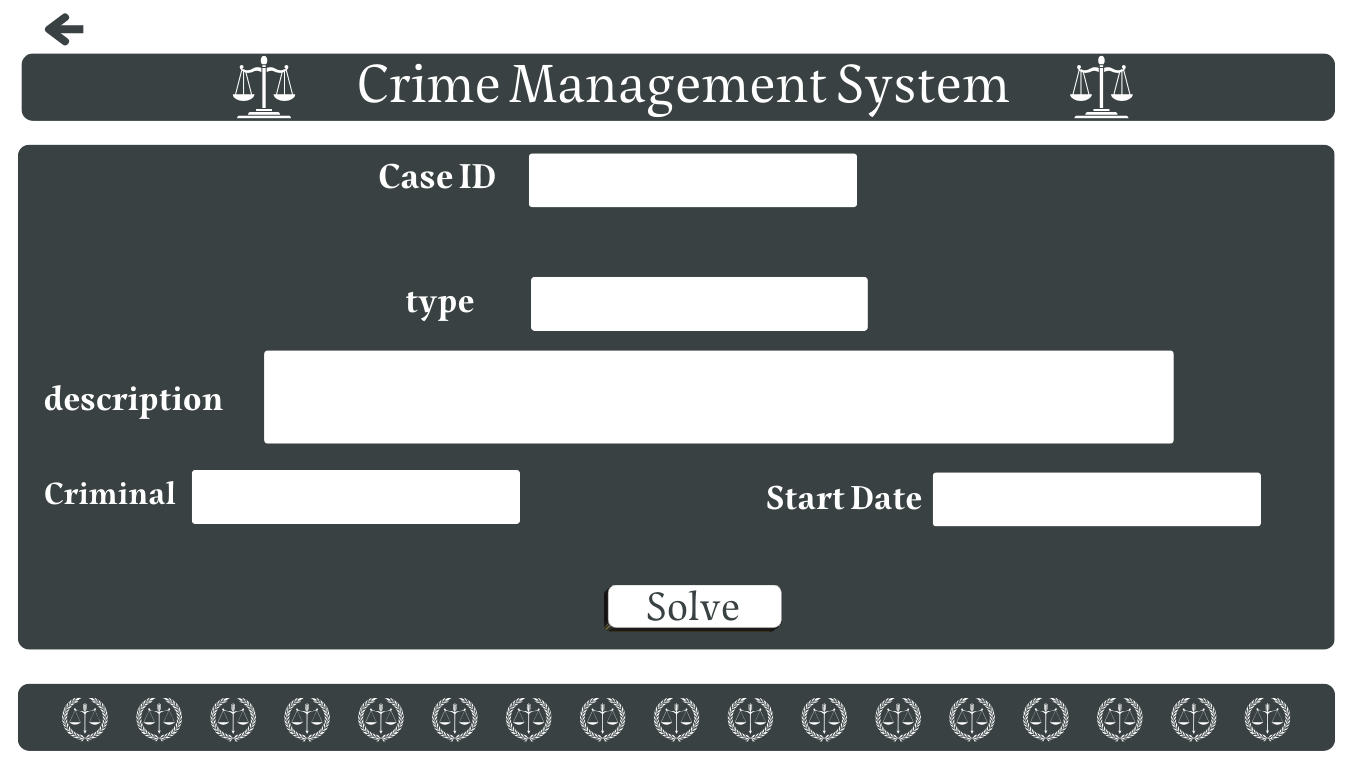
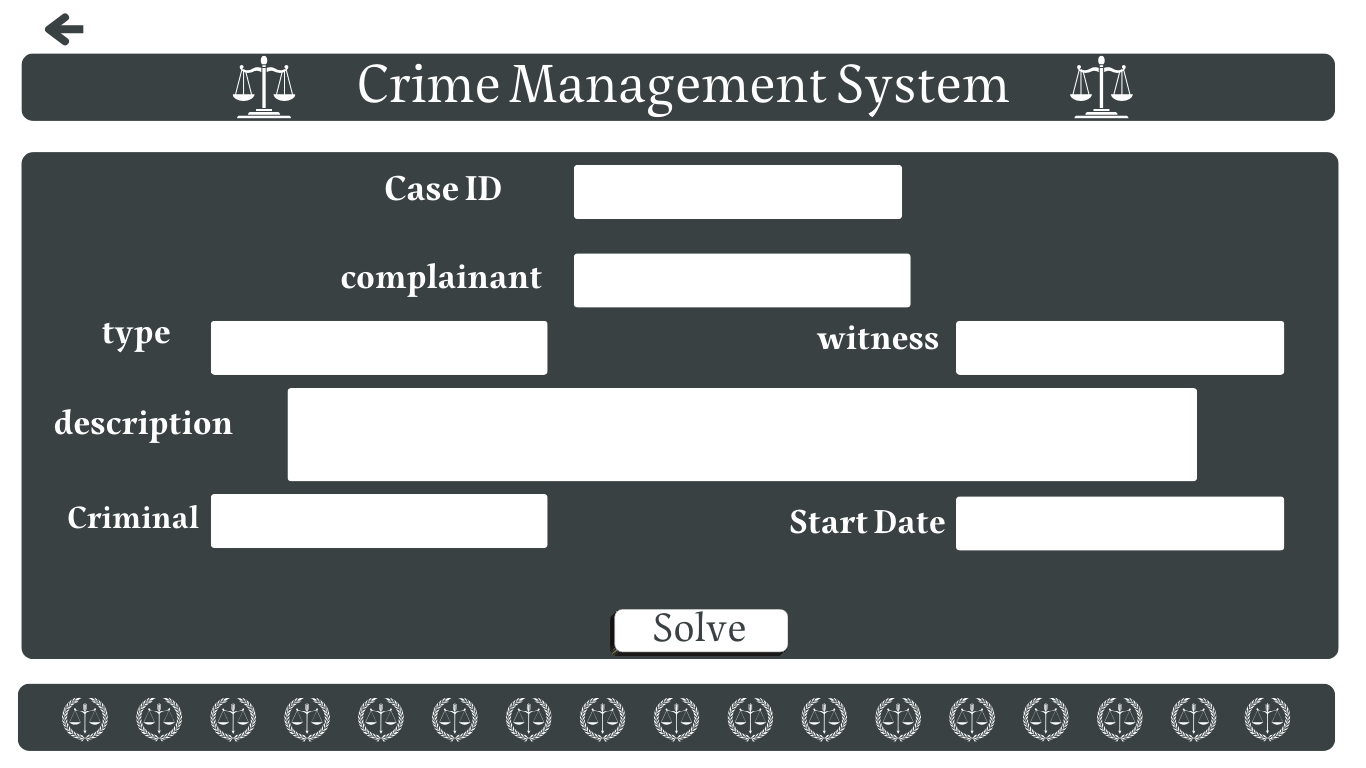
DONE OOP ✅

Changed region(s): [[0.0, 0.1875, 0.9839, 0.875], [0.0615, 0.4062, 0.123, 0.4688]]

diff --git a/src/main/java/com/example/crime_management_system_gui/PoliceOfficers.java b/src/main/java/com/example/crime_management_system_gui/PoliceOfficers.java
@@ -21,6 +21,10 @@ public class PoliceOfficers extends Switching implements Initializable {
     @FXML
     private Label description;
     @FXML
+    private Label witness;
+    @FXML
+    private Label complainant;
+    @FXML
     private DatePicker startDate;
     @FXML
     private DatePicker lastUpdate;
@@ -39,7 +43,6 @@ public class PoliceOfficers extends Switching implements Initializable {
     @Override
     public void initialize(URL url, ResourceBundle resourceBundle) {
         dataManager = Main.getDataManager();
-
         List<String> Criminals = dataManager.getCriminalsData();
         for (String criminal : Criminals) {
             String[] criminalDetails = criminal.split(",");
@@ -58,6 +61,8 @@ public class PoliceOfficers extends Switching implements Initializable {
         String CaseId = cases.getValue();
         String CaseData = dataManager.getCaseDataById(CaseId);
         String[] caseDetails = CaseData.split(",");
+        complainant.setText(caseDetails[1]);
+        witness.setText(caseDetails[2]);
         crimeType.setText(caseDetails[3]);
         description.setText(caseDetails[4]);
         message.setText("");
@@ -114,7 +119,15 @@ public class PoliceOfficers extends Switching implements Initializable {
             message.setTextFill(Color.RED);
             return;
         }
-
+        for (int i = 0; i < dataManager.getUpdatedCriminalCases().size(); i++) {
+            String[] caseDetails = dataManager.getUpdatedCriminalCases().get(i).split(",");
+            if (caseDetails[0].equals(CaseId)) {
+                caseDetails[1] = LastUpdate;
+                dataManager.updateUpdatedCriminalCasesData(i, String.join(",", caseDetails));
+            }
+        }
+        String UpdatedCriminalCases = String.join(",", CaseId, LastUpdate, Criminal);
+        dataManager.getUpdatedCriminalCases().add(UpdatedCriminalCases);
 
         message.setText("Criminal added successfully!");
         message.setTextFill(Color.GREEN);
@@ -122,7 +135,7 @@ public class PoliceOfficers extends Switching implements Initializable {
 
     @FXML
     private void getCaseInfoForUpdate() {
-        assignedCriminals.getItems().clear();
+        clear();
         String CaseId = cases.getValue();
         String SolvedCaseData = dataManager.getSolvedCaseDataById(CaseId);
         String[] caseDetails = SolvedCaseData.split(",");
@@ -134,5 +147,11 @@ public class PoliceOfficers extends Switching implements Initializable {
 
         List<String> criminalIds = dataManager.getCriminalsIdsByCaseId(CaseId);
         assignedCriminals.getItems().addAll(criminalIds);
+    }
+
+    private void clear(){
+        assignedCriminals.getItems().clear();
+        viewLastUpdate.setText("");
+        viewStartDate.setText("");
     }
 }

diff --git a/src/main/java/com/example/crime_management_system_gui/DataManager.java b/src/main/java/com/example/crime_management_system_gui/DataManager.java
@@ -394,6 +394,10 @@ public class DataManager {
         return null;
     }
 
+    public void updateUpdatedCriminalCasesData(int index, String newData) {
+        getUpdatedCriminalCases().set(index, newData);
+    }
+
     /*======================End of Updated Case data====================================*/
 
     /*==========================Getters============================ */
